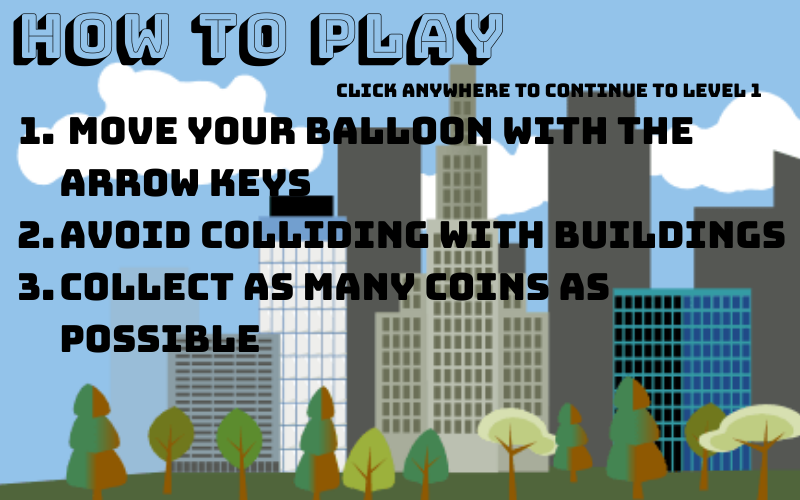
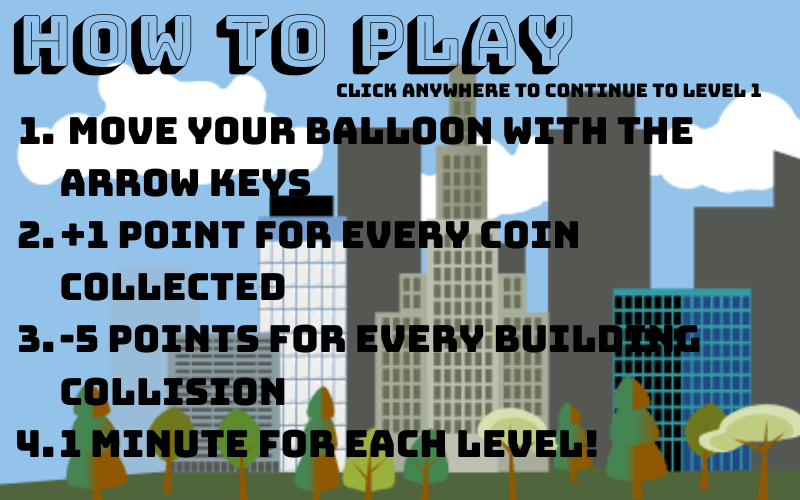
changed instructions file. attempting to add time limit & game over view.

diff --git a/maingame.py b/maingame.py
@@ -87,9 +87,11 @@ class LevelOne(arcade.View):
             coin = Coin("images/coin.png", .15)
             coin.center_x = random.randrange(WINDOW_WIDTH * 1.75)
             coin.center_y = random.randrange(WINDOW_HEIGHT, WINDOW_HEIGHT * 1.75)
+            coin.angle = random.randrange(360)
+            coin.change_angle = random.randrange(-5, 6)
             self.coin_list.append(coin)
 
-        for x in range(30):
+        for x in range(20):
             building = Building("images/building.png", scale=1)
             building.center_x = random.randrange(WINDOW_WIDTH * 1.75)
             building.center_y = 0
@@ -138,6 +140,8 @@ class LevelOne(arcade.View):
         if changed:
             arcade.set_viewport(self.view_left, WINDOW_WIDTH + self.view_left, self.view_bottom, WINDOW_HEIGHT)
         if delta_time == 1 and self.score < 25:
+            self.game_over = True
+        if self.game_over:
             game_over = GameOver()
             self.window.show_view(game_over)
         if self.score == 25 and self.level == 1:

diff --git a/sprites.py b/sprites.py
@@ -17,14 +17,14 @@ class Player(arcade.Sprite):
 class Building(arcade.Sprite):
     def update(self):
         self.center_y +=.2
-        if self.top < 0:
-            self.bottom = WINDOW_HEIGHT
+
 
 class Coin(arcade.Sprite):
     def update(self):
         self.center_y -= 2
         if self.top < 0:
             self.bottom = WINDOW_HEIGHT
+        self.angle += self.change_angle
 
 
 
